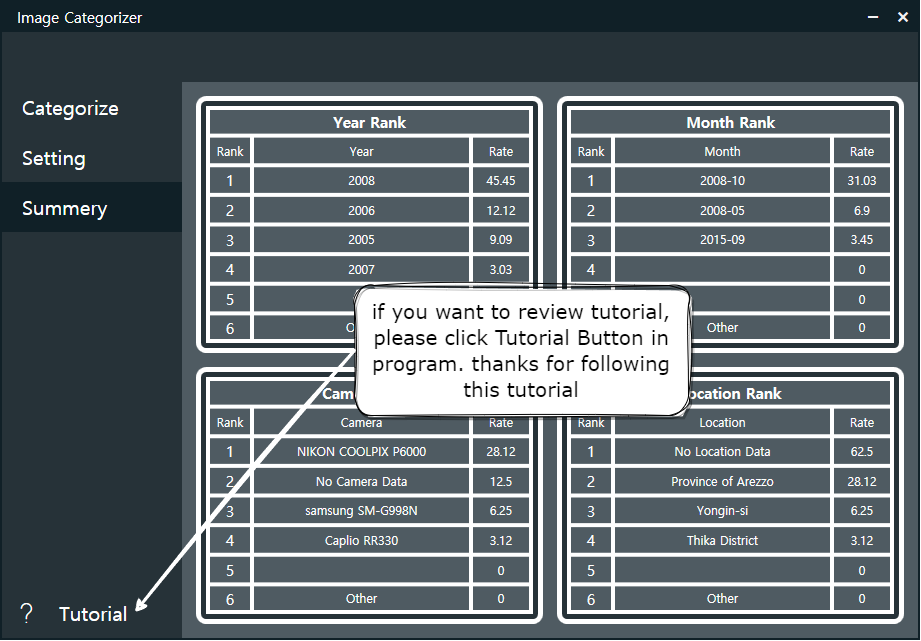
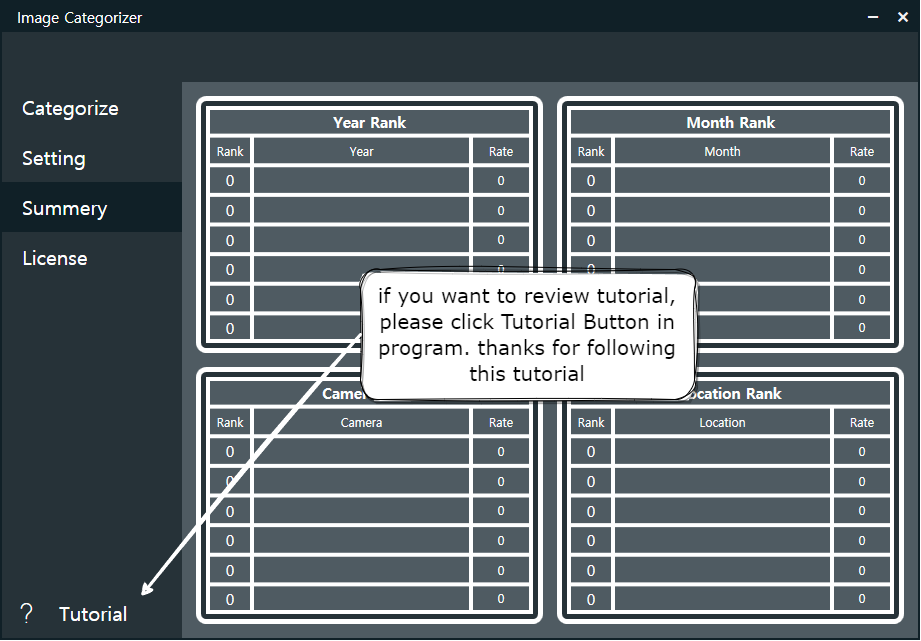
fixed: images, license hyperlink

diff --git a/image-categorizer/MVVM/View/LicenseView.xaml b/image-categorizer/MVVM/View/LicenseView.xaml
@@ -24,6 +24,14 @@
                         Padding="5"
                         Foreground="{StaticResource WhiteSolidColorBrush}"
                         Text="by Creative Commons License CC BY 4.0" />
+                    <TextBlock Padding="5" TextWrapping="Wrap">
+                        <Hyperlink
+                            Foreground="{StaticResource WhiteSolidColorBrush}"
+                            NavigateUri="https://www.geonames.org/"
+                            RequestNavigate="HyperLinkNavigate">
+                            https://www.geonames.org/
+                        </Hyperlink>
+                    </TextBlock>
 
                     <Separator Background="{StaticResource WhiteSolidColorBrush}" />
                 </StackPanel>

diff --git a/image-categorizer/MVVM/View/LicenseView.xaml.cs b/image-categorizer/MVVM/View/LicenseView.xaml.cs
@@ -1,5 +1,6 @@
 using System;
 using System.Collections.Generic;
+using System.Diagnostics;
 using System.Linq;
 using System.Text;
 using System.Threading.Tasks;
@@ -24,10 +25,15 @@ namespace image_categorizer.MVVM.View
         {
             InitializeComponent();
         }
-/*        public void HyperLinkNavigate(object sender, System.Windows.Navigation.RequestNavigateEventArgs e)
+        public void HyperLinkNavigate(object sender, RequestNavigateEventArgs e)
         {
-            System.Diagnostics.Process.Start(e.Uri.AbsoluteUri);
+            var uri = e.Uri.AbsoluteUri;
+            var sInfo = new System.Diagnostics.ProcessStartInfo(uri)
+            {
+                UseShellExecute = true,
+            };
+            System.Diagnostics.Process.Start(sInfo);
             e.Handled = true;
-        }*/
+        }
     }
 }
